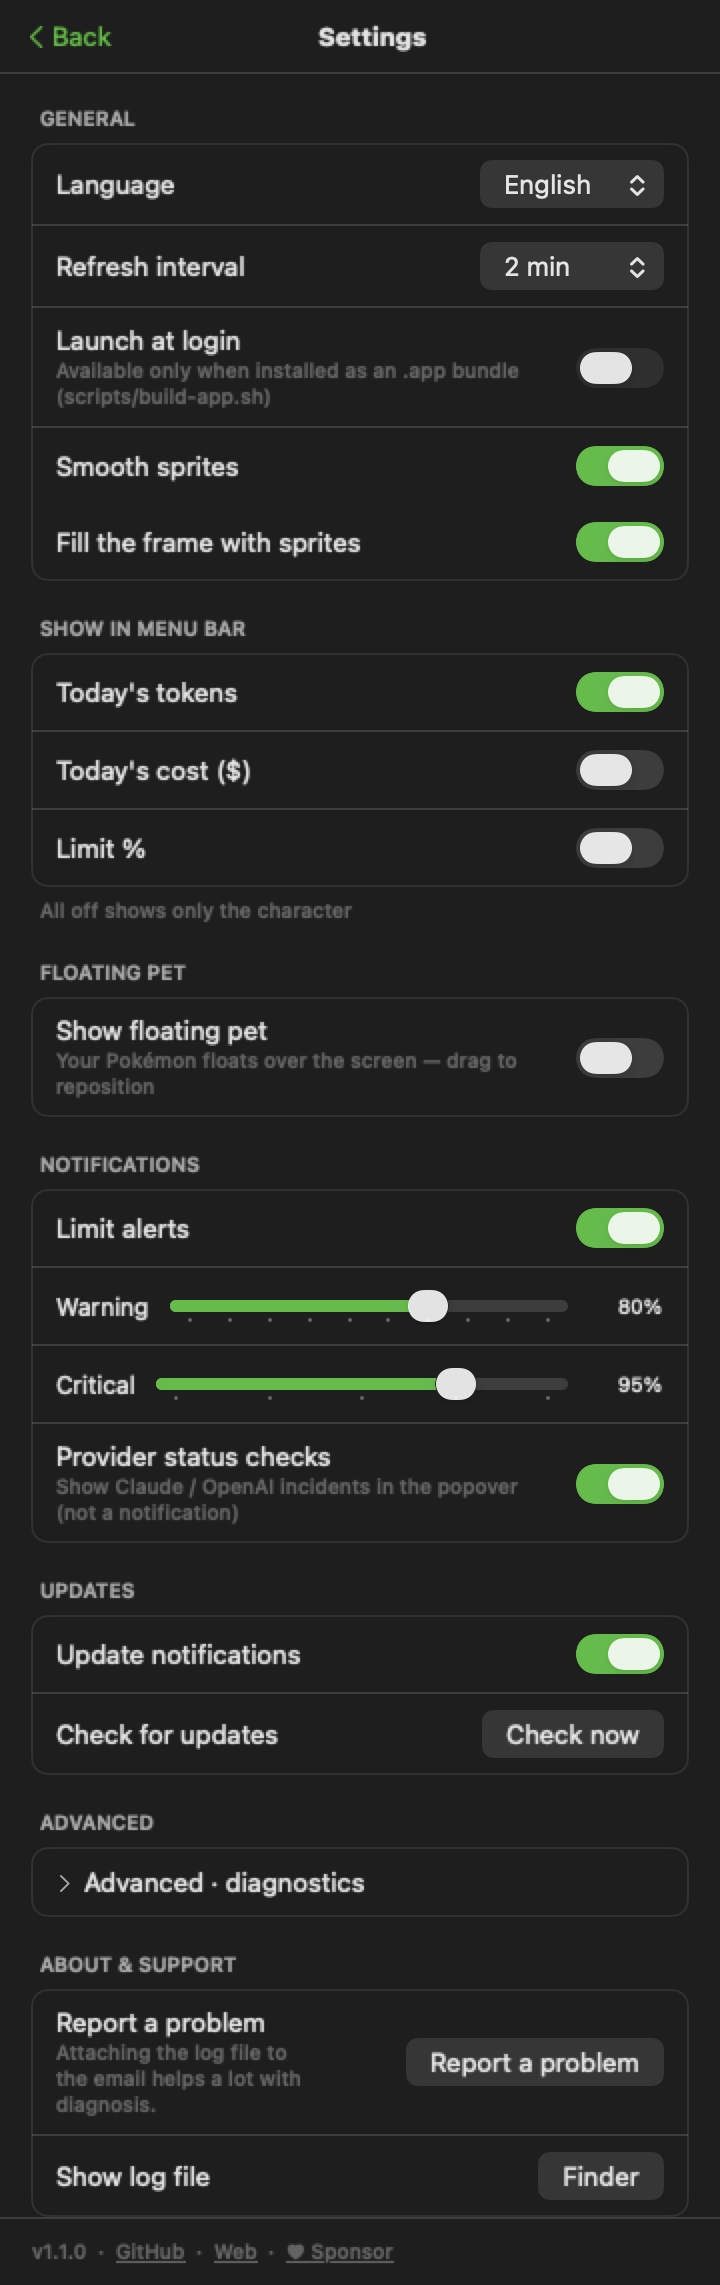
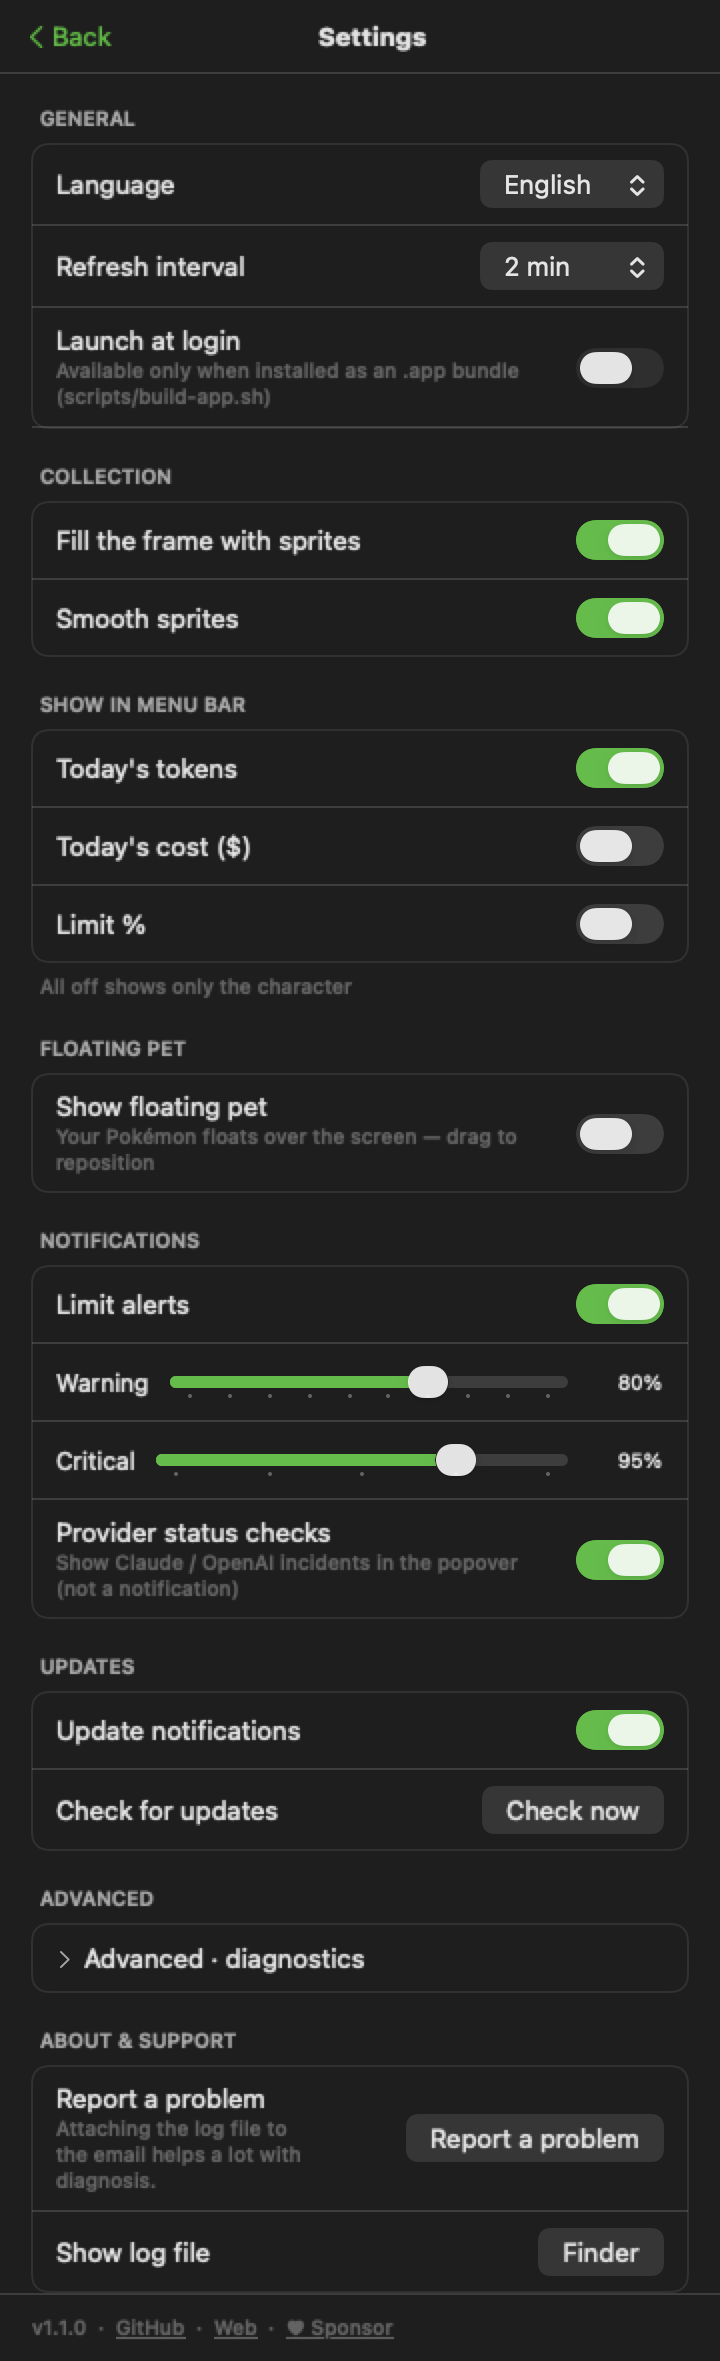
refactor: move the sprite settings into their own Collection section
Filling the frame and smoothing sprites are both about how a Pokemon is
drawn, which has nothing to do with language or refresh interval. They
now sit under Collection instead of being buried at the end of General.

diff --git a/Sources/PokeDexBar/UI/SettingsView.swift b/Sources/PokeDexBar/UI/SettingsView.swift
@@ -31,6 +31,7 @@ struct SettingsView: View {
             ScrollView {
                 VStack(alignment: .leading, spacing: 18) {
                     generalGroup(store)
+                    dexGroup(store)
                     menuBarGroup(store)
                     floatingPetGroup(store)
                     notificationsGroup(store)
@@ -138,8 +139,6 @@ struct SettingsView: View {
             Divider()
             // 팝오버 컴패니언·플로팅 펫 스프라이트 공통 설정 — 플로팅 펫이 꺼져 있어도(기본값)
             // 팝오버 컴패니언은 항상 보이므로 조건 없이 여기 둔다.
-            toggleRow(l.antialiasLabel, $store.antialiasSprites)
-            toggleRow(l.fillSpriteFrameLabel, $store.fillSpriteFrame)
         }
     }
 
@@ -319,6 +318,17 @@ struct SettingsView: View {
                     .font(.caption2).foregroundStyle(.tertiary)
                     .padding(.horizontal, 12).padding(.vertical, 8)
             }
+        }
+    }
+
+    /// 도감 — 스프라이트를 어떻게 그릴지. 언어·새로고침 같은 앱 전반 설정과 성격이 달라
+    /// 일반에서 떼어 냈다(둘 다 "포켓몬을 어떻게 보여주나"에 관한 것이다).
+    private func dexGroup(_ store: UsageStore) -> some View {
+        @Bindable var store = store
+        return settingsSection(l.dexSectionTitle) {
+            toggleRow(l.fillSpriteFrameLabel, $store.fillSpriteFrame)
+            Divider()
+            toggleRow(l.antialiasLabel, $store.antialiasSprites)
         }
     }
 

diff --git a/Sources/PokeDexBar/Core/Localization.swift b/Sources/PokeDexBar/Core/Localization.swift
@@ -270,6 +270,8 @@ struct L {
     var floatingPetBubbleAlertsLabel: String {
         t("말풍선으로 알림 받기", "Show notifications as bubbles", "通知を吹き出しで表示")
     }
+    /// 설정의 도감 섹션 — 스프라이트를 어떻게 그릴지 모아 둔다.
+    var dexSectionTitle: String { t("도감", "Collection", "コレクション") }
     var fillSpriteFrameLabel: String {
         t("스프라이트를 칸에 꽉 채우기", "Fill the frame with sprites", "スプライトを枠いっぱいに")
     }
